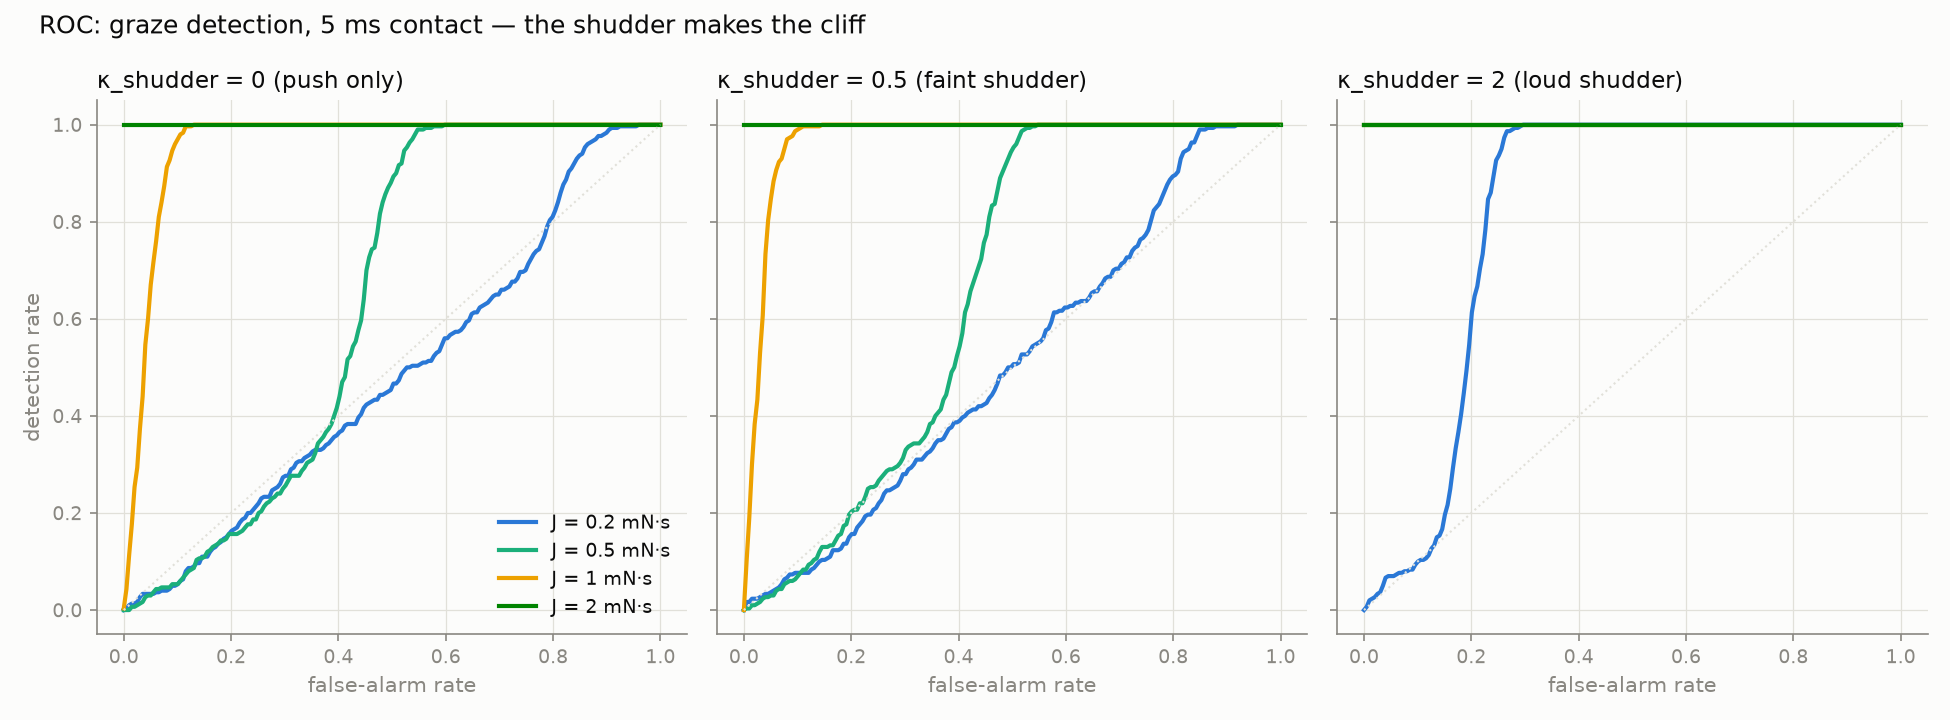
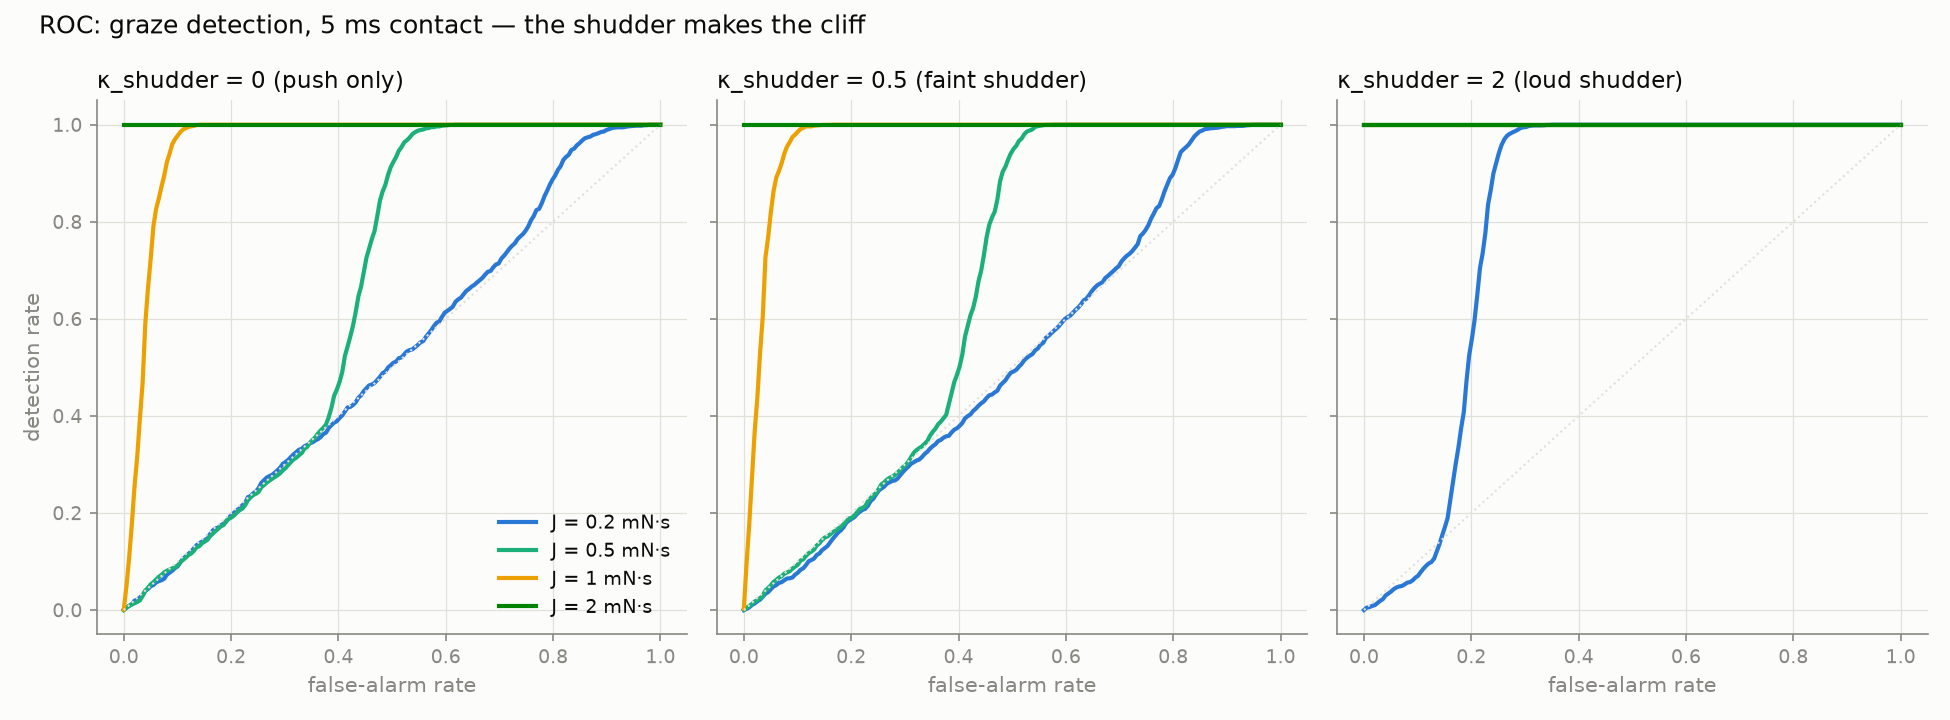
Part-2 figure pass: twist ROC, tighter shudder ROC, uncrowded map titles
New single-panel twist ROC (detrended detector, kappa_twist=1); shudder
ROC re-rendered at n=2000 to remove sub-diagonal Monte Carlo wobble;
detectability map panel titles shortened.

Claude-Session: https://claude.ai/code/session_01JinYQagh942U1i2GTMJHNi

diff --git a/sim/touch_detection.py b/sim/touch_detection.py
@@ -165,7 +165,7 @@ def fig_traces(noise_stats, out):
     plt.close(fig)
 
 
-def fig_roc(noise_stats, out, Js=(0.5e-3, 1e-3, 2e-3, 5e-3)):
+def fig_roc(noise_stats, out, Js=(0.5e-3, 1e-3, 2e-3, 5e-3), n=N_TRIALS):
     kappas = [(0.0, "κ_shudder = 0 (push only)"), (0.5, "κ_shudder = 0.5 (faint shudder)"),
               (2.0, "κ_shudder = 2 (loud shudder)")]
     fig, axes = plt.subplots(1, 3, figsize=(13, 4.8), sharey=True)
@@ -176,7 +176,7 @@ def fig_roc(noise_stats, out, Js=(0.5e-3, 1e-3, 2e-3, 5e-3)):
         styled_axes(ax)
         for J, color in zip(Js, CAT):
             sig = touch_pulse(J, 5e-3, kappa_shudder)
-            stats = detect_stat(to_sensor(make_noise(N_TRIALS) + sig))
+            stats = detect_stat(to_sensor(make_noise(n) + sig))
             tpr = (stats[:, None] > thr[None, :]).mean(axis=0)
             ax.plot(fpr, tpr, color=color, lw=2, label=f"J = {J*1e3:g} mN·s")
         ax.plot([0, 1], [0, 1], color=GRID, lw=1, ls=":")
@@ -210,8 +210,8 @@ def fig_detectability(noise_stats, out, highlight=None):
         for sp in ax.spines.values():
             sp.set_visible(False)
         ax.set_xlabel("impulse J (mN·s)", color=MUTED)
-        ax.set_title(f"shudder coupling κ_shudder = {kappa_shudder:g}"
-                     + ("  (rigid body only)" if kappa_shudder == 0 else ""),
+        ax.set_title(f"κ_shudder = {kappa_shudder:g}"
+                     + (" (rigid body only)" if kappa_shudder == 0 else ""),
                      color=INK, fontsize=10, loc="left")
         for (r, c), v in np.ndenumerate(grid):
             ax.text(c, r, f"{v:.2f}", ha="center", va="center", fontsize=7,
@@ -829,3 +829,52 @@ def post2_assets():
 
 if __name__ == "__main__" and __import__("sys").argv[-1] == "p2assets":
     post2_assets()
+
+
+def fig_roc_twist(out, Js=(0.05, 0.1, 0.18, 0.35), n=2000):
+    """ROC for the gyro channel (detrended detector, κ_twist = 1). One panel:
+    the twist's spin-step is τ-independent by model construction, so one
+    curve per strength covers all contact times."""
+    noise = twist_stat_detrended(gyro_trace(3000))
+    fpr = np.linspace(0, 1, 200)
+    thr = np.quantile(noise, 1 - fpr)
+    fig, ax = plt.subplots(figsize=(6.4, 4.8))
+    fig.patch.set_facecolor(SURFACE)
+    styled_axes(ax)
+    for J, color in zip(Js, CAT):
+        stats = twist_stat_detrended(gyro_trace(n, J * 1e-3, 1.0))
+        tpr = (stats[:, None] > thr[None, :]).mean(axis=0)
+        ax.plot(fpr, tpr, color=color, lw=2, label=f"J = {J:g} mN·s")
+    ax.plot([0, 1], [0, 1], color=GRID, lw=1, ls=":")
+    ax.set_xlabel("false-alarm rate", color=MUTED)
+    ax.set_ylabel("detection rate", color=MUTED)
+    leg = ax.legend(loc="lower right", fontsize=9, frameon=False)
+    for txt in leg.get_texts():
+        txt.set_color(INK)
+    ax.set_title("ROC: the twist (gyro, detrended, κ_twist = 1)",
+                 color=INK, fontsize=12, loc="left")
+    fig.savefig(out, dpi=150, facecolor=SURFACE, bbox_inches="tight")
+    plt.close(fig)
+
+
+def post2_assets_v2():
+    """Re-render only the §4 figures: shudder ROC with more trials (kills the
+    sub-diagonal Monte Carlo wobble), map with uncrowded titles, new twist
+    ROC. Teaser and lottery figures deliberately untouched."""
+    global SIG_AERO, F_AERO, GYRO_JITTER_DPS
+    old = (SIG_AERO, F_AERO, GYRO_JITTER_DPS)
+    SIG_AERO, F_AERO, GYRO_JITTER_DPS = CORRECTED
+    noise_stats = detect_stat(to_sensor(make_noise(3000)))
+    fig_roc(noise_stats, "figs/p2_fig_roc.png",
+            Js=(0.2e-3, 0.5e-3, 1e-3, 2e-3), n=2000)
+    print("wrote figs/p2_fig_roc.png (n=2000)")
+    fig_detectability(noise_stats, "figs/p2_fig_detectability.png",
+                      highlight=(0.35e-3, 5e-3))
+    print("wrote figs/p2_fig_detectability.png")
+    fig_roc_twist("figs/p2_fig_roc_twist.png")
+    print("wrote figs/p2_fig_roc_twist.png")
+    SIG_AERO, F_AERO, GYRO_JITTER_DPS = old
+
+
+if __name__ == "__main__" and __import__("sys").argv[-1] == "p2assets2":
+    post2_assets_v2()
